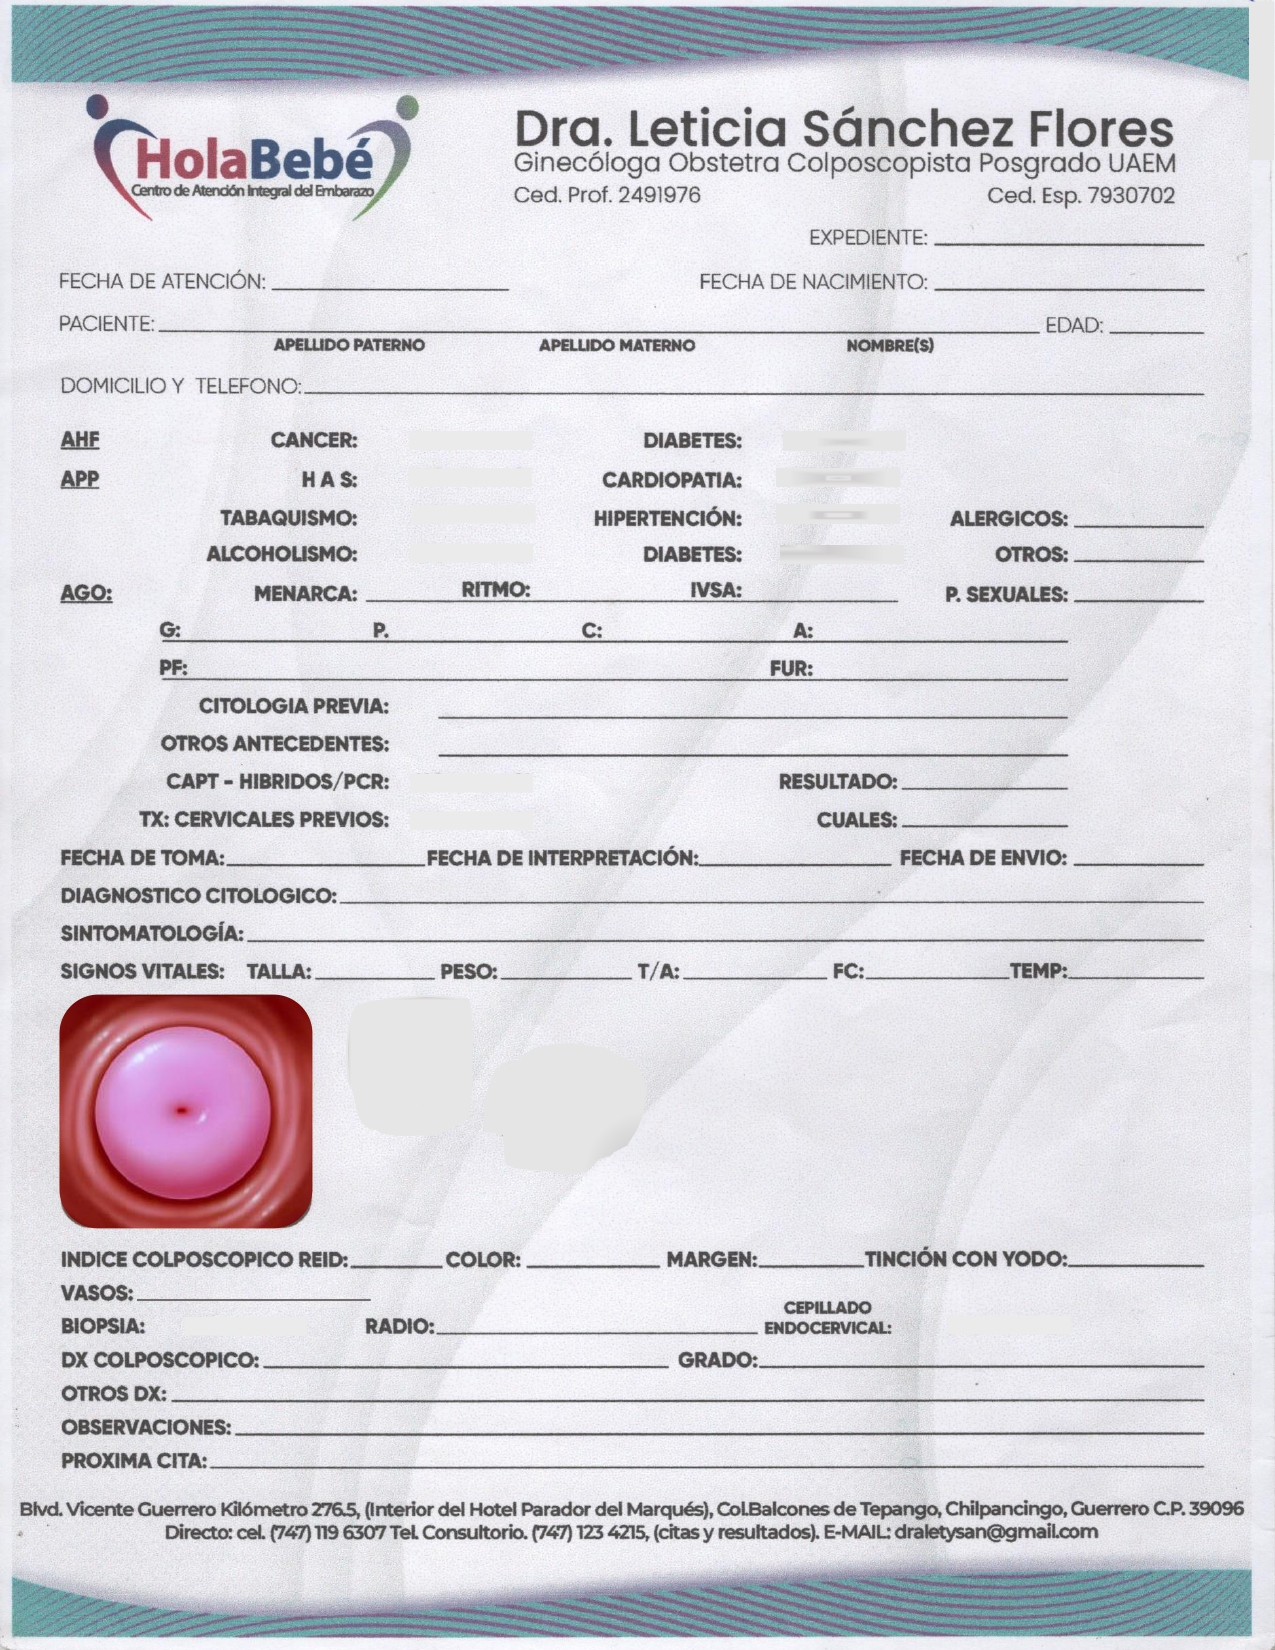
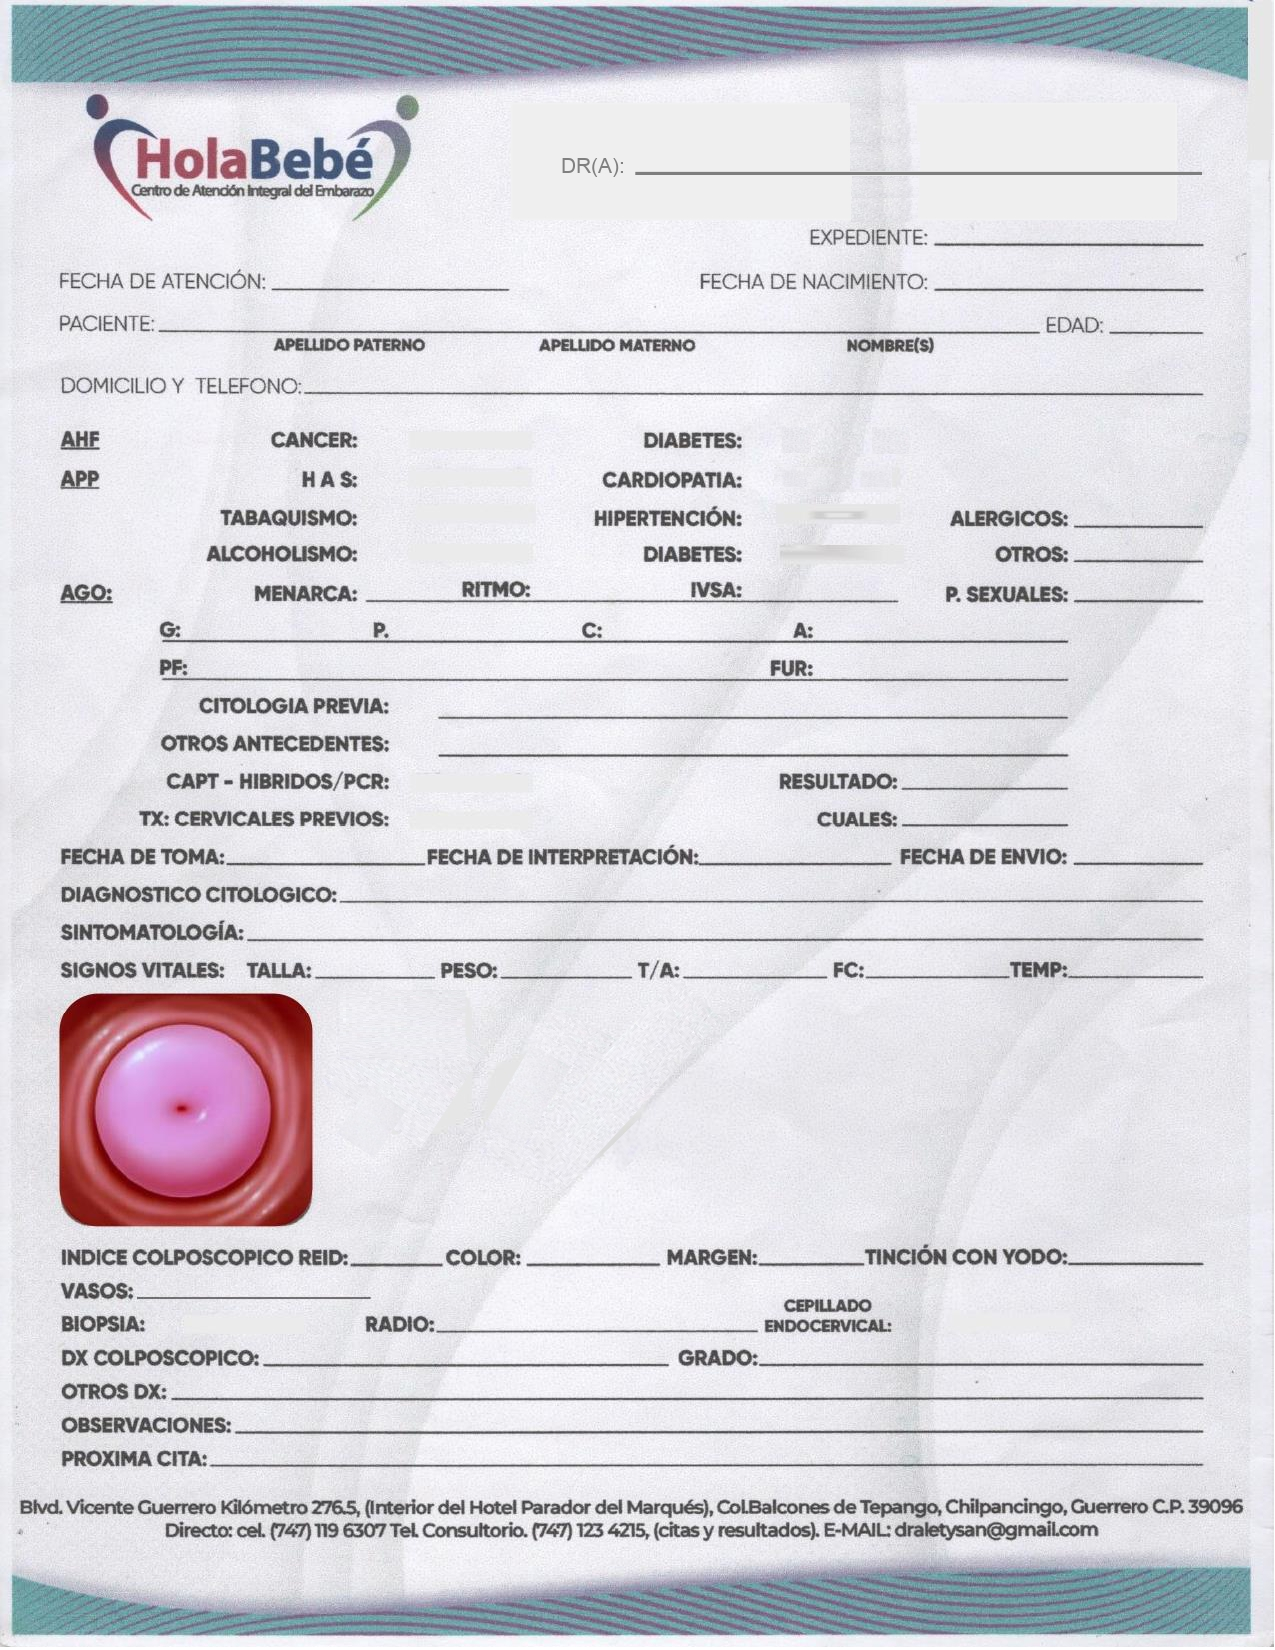
prueba03

diff --git a/public/js/generarDiagnosticoPDF.js b/public/js/generarDiagnosticoPDF.js
@@ -1,4 +1,4 @@
-function generarDiagnosticoPDF(diagnostico, paciente, triaje, imgDiagnostico){
+function generarDiagnosticoPDF(diagnostico, paciente, triaje, imgDiagnostico, medico){
     const { jsPDF } = window.jspdf;
     const doc = new jsPDF({ format: 'letter' });
     const imageUrl = imgDiagnostico;
@@ -7,18 +7,24 @@ function generarDiagnosticoPDF(diagnostico, paciente, triaje, imgDiagnostico){
     img.onload = function () {
         // Añadir imagen
         doc.addImage(this, 'JPEG', 0, 0, 218, 280);
-        doc.text(`${paciente.apellido_P}`, 30, 36.5);
-        doc.text(`${paciente.apellido_M}`, 65, 36.5);
-        doc.text(`${paciente.nombre}`, 98, 36.5); 
-        doc.text(new Date(triaje.created_at).toLocaleDateString('es-ES', { day: '2-digit', month: '2-digit', year: 'numeric' }), 180,36.5,);        
-        doc.text(`${paciente.edad}`, 32, 43);      
-        doc.text(`Años`, 41, 43);              
-        doc.text(triaje.tomaSignosVitales.peso, 85, 43,); 
-        doc.text(triaje.tomaSignosVitales.tension_arterial_toma, 128, 44,);     
-        doc.text(`Diagnostico:`, 15, 60);
-        doc.text(diagnostico.diagnostico, 15, 70,); 
-        doc.text(`Receta medica:`, 15, 160);
-        doc.text(diagnostico.receta_medica, 15, 170,); 
+        // Agregar texto
+        doc.setFontSize(15);
+        doc.setTextColor("#383838");
+
+        doc.text(medico.name, 110, 28.5,); 
+        doc.text(`${paciente.apellido_P}`, 81, 40);
+        doc.text(`${paciente.apellido_M}`, 115, 40);
+        doc.text(`${paciente.nombre}`, 148, 40); 
+        doc.text(new Date(triaje.created_at).toLocaleDateString('es-ES', { day: '2-digit', month: '2-digit', year: 'numeric' }), 28, 47);        
+        doc.text(`${paciente.edad}`, 180, 47);      
+        doc.text(`Años`, 188, 47);              
+        doc.text(triaje.tomaSignosVitales.peso, 180, 54,); 
+        doc.text(triaje.tomaSignosVitales.tension_arterial_toma, 180, 60,);     
+        doc.text(`Diagnostico:`, 15, 65);
+        doc.text(diagnostico.diagnostico, 15, 75,); 
+        doc.text(`Receta medica:`, 15, 162);
+        doc.text(diagnostico.receta_medica, 15, 172,); 
+        
         doc.save(`${paciente.nombre}-${paciente.apellido_P}-${paciente.apellido_M}-diagnostico y receta.pdf`);
     };
 

diff --git a/public/js/generarPDF.js b/public/js/generarPDF.js
@@ -1,4 +1,4 @@
-function generarPDF(colposcopia, imgData2, imgData3, paciente, triaje) {
+function generarPDF(colposcopia, imgData2, imgData3, paciente, triaje, medico) {
     const { jsPDF } = window.jspdf;
     const doc = new jsPDF({ format: 'letter' });
 
@@ -25,14 +25,17 @@ function generarPDF(colposcopia, imgData2, imgData3, paciente, triaje) {
         doc.addImage(image2, 'JPEG', 10, 169, 43.5, 40);
 
         // Agregar texto
-        doc.setFontSize(12);
-        doc.setTextColor("#3f3f3f");
+        doc.setFontSize(15);
+        doc.setTextColor("#3f3f3f");        
         
+        doc.text(medico.name, 110, 28.5,); 
+        
+        doc.setFontSize(12);
         doc.text(`${new Date(colposcopia.created_at).toLocaleDateString('es-ES', { day: '2-digit', month: '2-digit', year: 'numeric' })}`, 49, 48.5);
         doc.text(`${new Date(paciente.fecha_nacimiento).toLocaleDateString('es-ES', { day: '2-digit', month: '2-digit', year: 'numeric' })}`, 165, 48.5);
         doc.text(`${paciente.apellido_P}`, 45, 56);
         doc.text(`${paciente.apellido_M}`, 90, 56);
-        doc.text(`${paciente.nombre}`, 135, 56);        
+        doc.text(`${paciente.nombre}`, 132, 56);        
         doc.text(`${paciente.edad}`, 190, 56);       
         doc.text(`Años`, 196, 56);              
         doc.text(`${paciente.lugar_procedencia}`, 55, 66);

diff --git a/vite.config.js b/vite.config.js
@@ -8,7 +8,6 @@ export default defineConfig({
     // server: {
     //     host: '10.174.1.200' || 'localhost',
     // },
-
     // server: {
     //     host: '192.168.1.75' || 'localhost',
     // },
@@ -18,9 +17,9 @@ export default defineConfig({
     // server: {
     //         host: '192.168.216.149' || 'localhost',
     //     },
-    // server: {
-    //             host: '10.135.1.201' || 'localhost',
-    //         },
+    server: {
+                host: '10.135.1.202' || 'localhost',
+            },
     // server: {
     //             host: '10.25.1.201' || 'localhost',
     //         },

diff --git a/resources/views/components/paciente/triaje.blade.php b/resources/views/components/paciente/triaje.blade.php
@@ -114,10 +114,11 @@
             $siColposcopia = true;
         }
     @endphp
-    <form id="formtriage" method="POST" action="{{ $triaje ? route('triajes.update', $consulta->triaje_id) : route('triajes.store', $consulta->id) }}">
+    <form id="formtriage" method="POST"
+        action="{{ $triaje ? route('triajes.update', $consulta->triaje_id) : route('triajes.store', $consulta->id) }}">
         @csrf
 
-        @if($triaje)
+        @if ($triaje)
             @method('PUT')
         @endif
         <h1 class='text-1xl font-bold mb-3 text-purple-800'>Signos vitales:</h1>
@@ -785,15 +786,21 @@
 
             document.getElementById('autovaloracion').style.display = 'none';
 
-            document.getElementById('fcf').addEventListener('click', function() {
-                document.getElementById('cajaActualizar').style.display = 'inline';
-                document.getElementById('cajaFcf').style.display = 'none';
-                document.getElementById('frecuencia_cardiaca_fetal').removeAttribute('readonly');
-            });
+            let fcf = document.getElementById('fcf');
+            if (fcf) {
+                fcf.addEventListener('click', function() {
+                    document.getElementById('cajaActualizar').style.display = 'inline';
+                    document.getElementById('cajaFcf').style.display = 'none';
+                    document.getElementById('frecuencia_cardiaca_fetal').removeAttribute('readonly');
+                });
+            }
 
-            document.getElementById('actualizarFcf').addEventListener('click', function() {
-                document.querySelector('#formtriage').submit();
-            });
+            let actualizarFcf = document.getElementById('actualizarFcf');
+            if (actualizarFcf) {
+                actualizarFcf.addEventListener('click', function() {
+                    document.querySelector('#formtriage').submit();
+                });
+            }
         }
     });
 

diff --git a/resources/views/components/paciente/diagnostico.blade.php b/resources/views/components/paciente/diagnostico.blade.php
@@ -41,10 +41,12 @@
 <script src="https://cdnjs.cloudflare.com/ajax/libs/jspdf/2.4.0/jspdf.umd.min.js"></script>
 <script>
     let diagnostico = @json($consulta->diagnostico);
+    
     let editandoDiagnostico = false;
 
     let paciente = @json($consulta->paciente);
-
+    let medico = @json($consulta->diagnostico->usuario ?? new stdClass());
+    
     let imgDiagnostico = "{{ asset('img-empresa/fondo-diagnostico.jpg') }}";
 
     if (diagnostico && !editandoDiagnostico) {
@@ -79,7 +81,7 @@
     if (imprimirDiagnostico) {
         imprimirDiagnostico.addEventListener('click', function() {
 
-            generarDiagnosticoPDF(diagnostico, paciente, triaje, imgDiagnostico);
+            generarDiagnosticoPDF(diagnostico, paciente, triaje, imgDiagnostico, medico);
         });
     }
 
@@ -119,8 +121,12 @@
                     diagnostico: formData.get('diagnostico'),
                     receta_medica: formData.get('receta_medica')
                 };
+
+                medico = {
+                    name : @json(auth()->user()->name)
+                };
                 // Aquí podrías hacer procesamiento adicional como generar un PDF
-                generarDiagnosticoPDF(diagnostico, paciente, triaje, imgDiagnostico);
+                generarDiagnosticoPDF(diagnostico, paciente, triaje, imgDiagnostico, medico);
 
                 // Retrasa el envío del formulario por 3 segundos
             setTimeout(function() {

diff --git a/routes/web.php b/routes/web.php
@@ -30,16 +30,6 @@ Route::get('/', function () {
     return redirect()->route('login');
 });
 
-if (DB::table('users')->count() === 0) {
-    $enableViews = config('fortify.views', true);
-    if (Features::enabled(Features::registration())) {
-        if ($enableViews) {
-            Route::get(RoutePath::for('register', '/register'), [RegisteredUserController::class, 'create'])->name('register');
-        }
-        Route::post(RoutePath::for('register', '/register'), [RegisteredUserController::class, 'store']);        
-    }
-}
-
 Route::middleware(['auth:sanctum', config('jetstream.auth_session'), 'verified',
 ])->group(function () {
     Route::get('/dashboard', function () {
@@ -117,3 +107,13 @@ Route::middleware(['auth:sanctum', config('jetstream.auth_session'), 'verified',
         // Route::delete('{id}', [ColposcopiasController::class, 'destroy'])->name('colposcopia.eliminar');
     });
 });
+
+if (DB::table('users')->count() === 0) {
+    $enableViews = config('fortify.views', true);
+    if (Features::enabled(Features::registration())) {
+        if ($enableViews) {
+            Route::get(RoutePath::for('register', '/register'), [RegisteredUserController::class, 'create'])->name('register');
+        }
+        Route::post(RoutePath::for('register', '/register'), [RegisteredUserController::class, 'store']);        
+    }
+}

diff --git a/app/Http/Controllers/DiagnosticosController.php b/app/Http/Controllers/DiagnosticosController.php
@@ -17,6 +17,7 @@ class DiagnosticosController extends Controller
         $diagnostico->diagnostico = $request->input('diagnostico');
         $diagnostico->receta_medica = $request->input('receta_medica');
         $diagnostico->consulta_id = $id;
+        $diagnostico->usuario_id = $request->user()->id;
         $diagnostico->save();
 
         $consulta->estado = 'Finalizada';
@@ -24,7 +25,8 @@ class DiagnosticosController extends Controller
         $consulta->save();
         
         $lugar = 'espera';
-        return redirect()->route('consultas.show', ['id' => $consulta->id, 'lugar' => $lugar]);
+        return redirect()->route('consultas.show', ['id' => $consulta->id, 'lugar' => $lugar])
+                                        ->with('success', 'Operación realizada correctamente.');
     }
 
     public function update(Request $request, $id)

diff --git a/resources/views/components/paciente/colposcopia.blade.php b/resources/views/components/paciente/colposcopia.blade.php
@@ -461,7 +461,7 @@
 
         var colposcopia = @json($colposcopia);
         let triaje = @json($triaje);
-
+        let medico = @json($consulta->colposcopia->usuario ?? new stdClass());
         let editando = false;
 
         const canvas = document.getElementById('canvas');
@@ -802,8 +802,8 @@
                     // document.getElementById('imageContainer').appendChild(img);
                     let paciente = @json($consulta->paciente);
                     let imgData3 = "{{ asset('img-empresa/fondo-colposcopia.jpg') }}";
-                    console.log(triaje);
-                    generarPDF(colposcopia, imgData2, imgData3, paciente, triaje);
+                    // console.log(triaje);
+                    generarPDF(colposcopia, imgData2, imgData3, paciente, triaje, medico);
                 });
 
             });

diff --git a/database/migrations/2024_04_15_162840_create_colposcopias_table.php b/database/migrations/2024_04_15_162840_create_colposcopias_table.php
@@ -19,7 +19,8 @@ return new class extends Migration
             $table->json('ago2')->nullable();
             // $table->string('ruta');
             $table->unsignedBigInteger('consulta_id');
-            $table->foreign('consulta_id')->references('id')->on('consultas')->onDelete('cascade');
+            $table->foreign('consulta_id')->references('id')->on('consultas')->onDelete('cascade');            
+            $table->integer('usuario_id')->default(0);
             $table->timestamps();
         });
     }

diff --git a/database/migrations/2024_05_04_182112_create_diagnosticos_table.php b/database/migrations/2024_05_04_182112_create_diagnosticos_table.php
@@ -16,7 +16,8 @@ return new class extends Migration
             $table->text('diagnostico');
             $table->text('receta_medica');
             $table->unsignedBigInteger('consulta_id');
-            $table->foreign('consulta_id')->references('id')->on('consultas')->onDelete('cascade');
+            $table->foreign('consulta_id')->references('id')->on('consultas')->onDelete('cascade');            
+            $table->integer('usuario_id')->default(0);
             $table->timestamps();
         });
     }

diff --git a/app/Http/Controllers/TriajesController.php b/app/Http/Controllers/TriajesController.php
@@ -83,8 +83,8 @@ class TriajesController extends Controller
         $consulta->triaje_id = $triaje->id;
         $consulta->estado = 'Confirmada';
         $consulta->save();
-    
-        return redirect()->route('consultas_dia');
+        $lugar = 'hoy';
+        return redirect()->route('consultas.show', ['id' => $consulta->id, 'lugar' => $lugar]);
         
         // return view('welcome', compact('observaciones'));
     }

diff --git a/app/Http/Controllers/ColposcopiasController.php b/app/Http/Controllers/ColposcopiasController.php
@@ -92,6 +92,7 @@ class ColposcopiasController extends Controller
             'ago2' => json_encode($ago2),
             // 'ruta' => 'storage'.$array[1],
             'consulta_id' => $consulta->id,
+            'usuario_id' => $request->user()->id,
         ]);
         $colposcopia->save();
 
